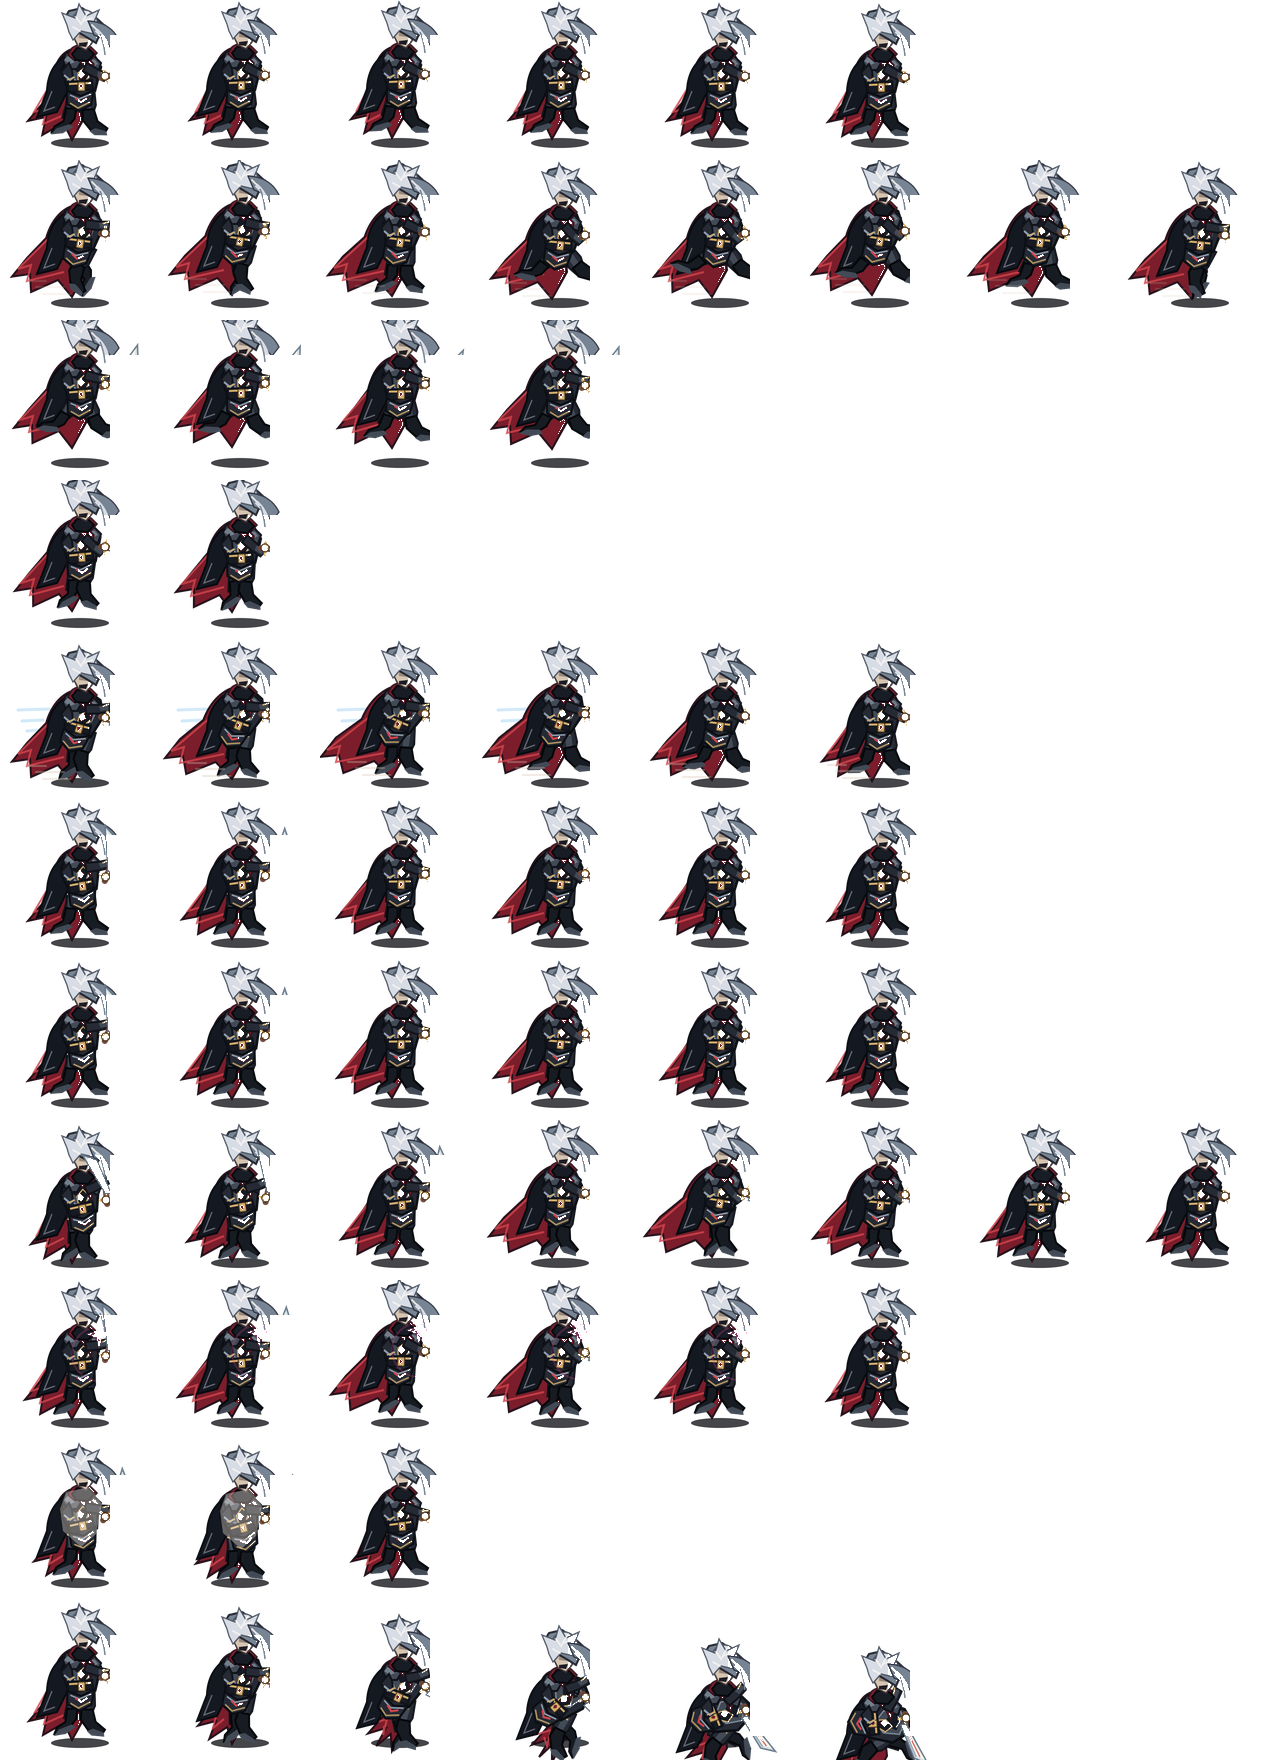
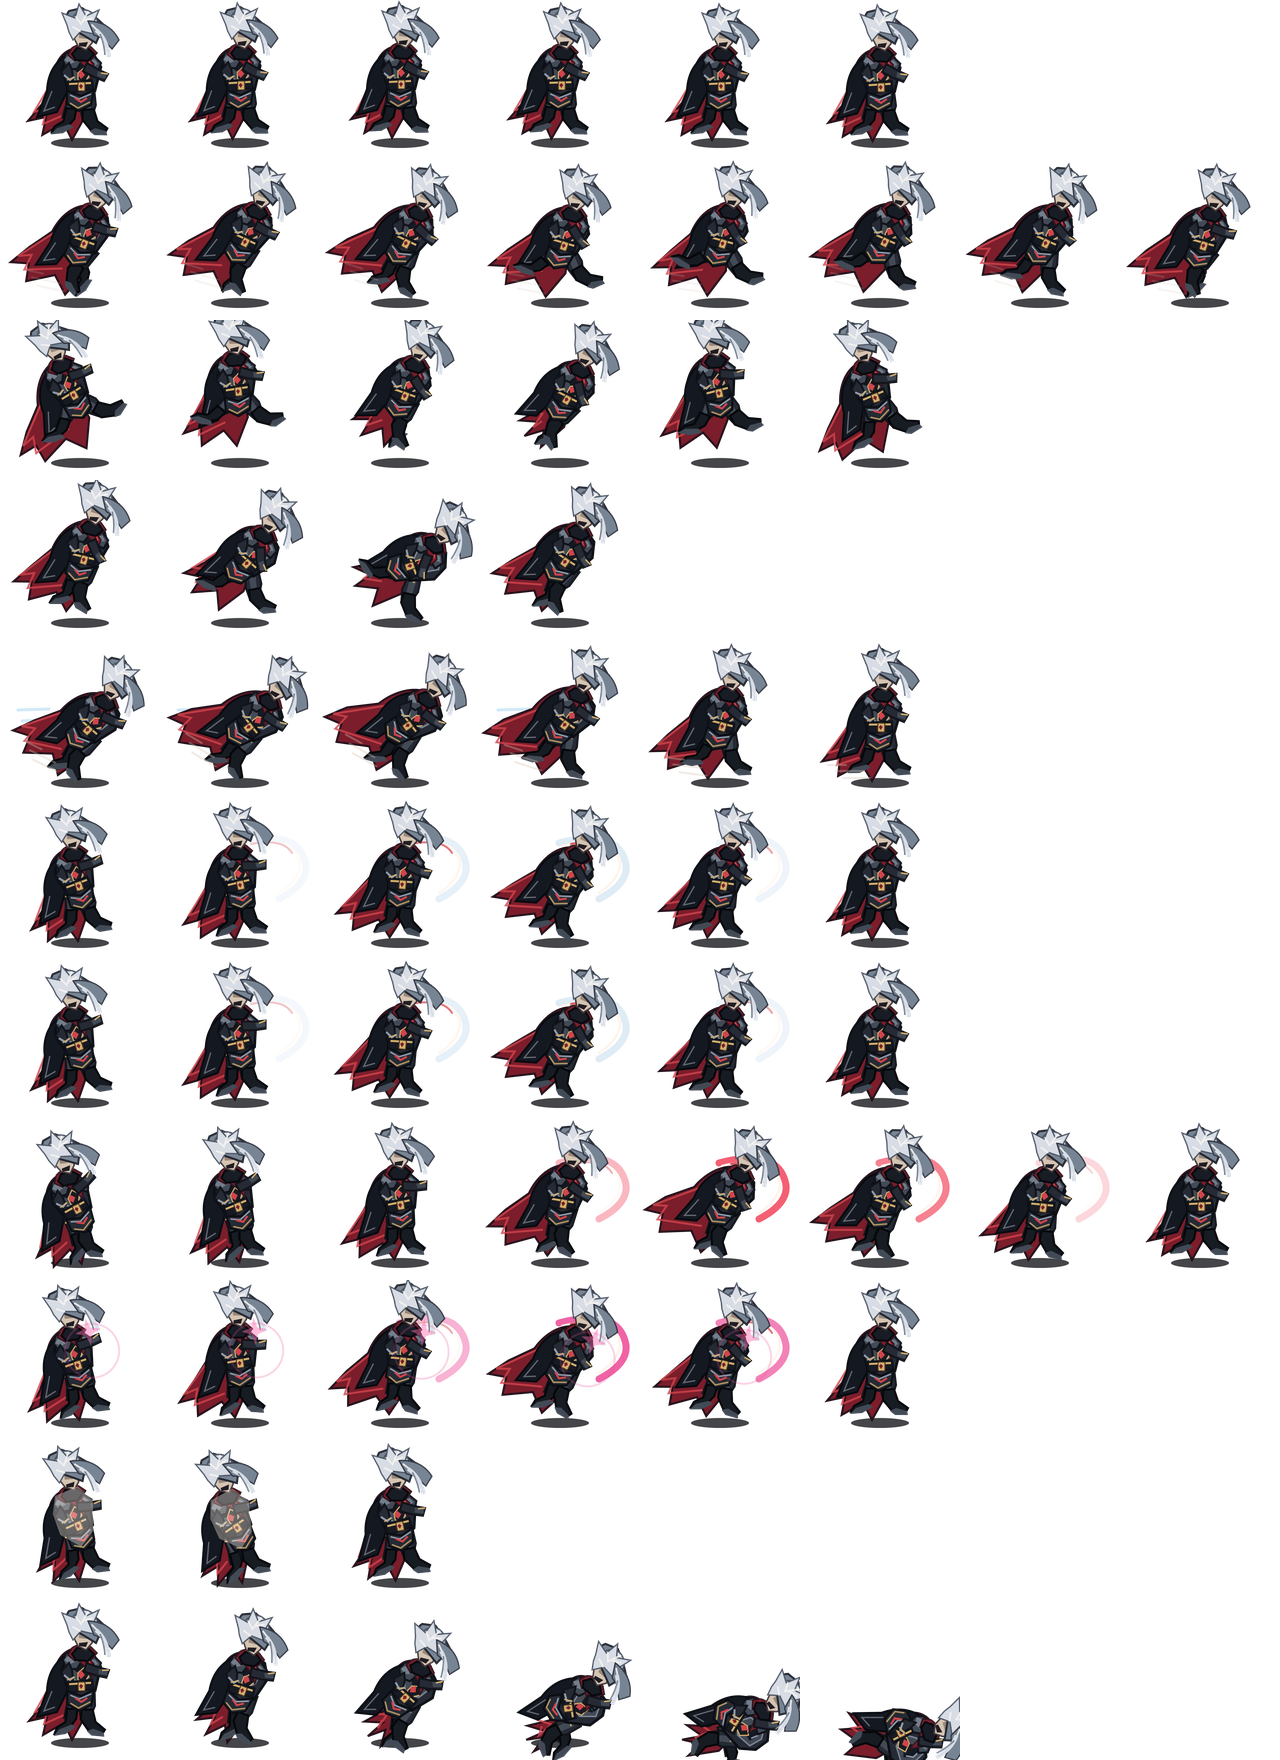
Characters: rebuild male/female sheets from Combat Upgrade 2 (new poses, 6-frame jump, 4-frame fall); male stays first/default

diff --git a/tools/build_pack_sheet.py b/tools/build_pack_sheet.py
@@ -14,8 +14,8 @@ from PIL import Image
 FRAME = 160
 # game row name -> (pack strip name, frames to use)
 ROWS = [
-    ("idle", "idle", 6), ("run", "run", 8), ("jump", "jump_loop", 4),
-    ("fall", "fall", 2), ("dodge", "dodge", 6), ("light1", "attack_light", 6),
+    ("idle", "idle", 6), ("run", "run", 8), ("jump", "jump_loop", 6),
+    ("fall", "fall", 4), ("dodge", "dodge", 6), ("light1", "attack_light", 6),
     ("light2", "attack_light", 6), ("heavy", "attack_heavy", 8),
     ("skill", "skill", 6), ("hurt", "hurt", 3), ("death", "death", 6),
 ]

diff --git a/docs/PROGRESS.md b/docs/PROGRESS.md
@@ -30,6 +30,7 @@ Priority: SAVE PROGRESS > MANY FEATURES. Commit and push after every small step.
 - Environment Kit + Weapon Kit added (`docs/kits/*_README.md` has the originals' docs). Backgrounds: kit 01-03 were the same art as existing regions, so those regions got the kit names (Ashen Chapel, Cinder Bastion, The Drowned March) and the new `veiled_throne.jpg` became region 5 (F1-F5; Moonlit Citadel keeps its name). Weapons: all 12 weapon PNGs, icons, `weapon_manifest.json` in `godot/assets/weapons/`, VFX in `godot/assets/fx/kit/`. In game: hotbar uses the kit icons (Rookfang 01, Gravetide 04, Oathbreaker 02); weapons now change gameplay via `Player.WEAPON_DATA` (damage x, reach x, slash art: crimson / frost / holy); hits spawn kit slash + blood impact, dodge spawns the dash trail (`SheetUtil.pop_sprite`). Held-weapon sprites are NOT drawn (the knight art already holds a sword); the other 9 weapons are unused for now. HUD icon textures must be preloaded in `_ready` (first-draw load showed white squares). Tests 19/19 + 10/10.
 - Asset Pack import (step 1): owner's `AshenVeil_Godot_Complete_Asset_Pack.zip` (checksums verified) has generated chibi-style male/female characters with real jump/fall/land/dodge/hurt/death strips (160px frames). They differ in style from the painted Ashen Knight, so the knight stays the default. `tools/build_pack_sheet.py <pack_root>` builds `godot/assets/characters/player_male|female.png/.json` in the game's row format (scale 0.45, feet_row 146, center_x 80). Wired in (step 2): `Player.SKINS` + static `Player.skin`, **F6 cycles Ashen Knight / Male / Female** (scene reloads, choice survives like regions); skin test added (sheet + meta exist); `tests/screenshot.gd` honours env `ASHEN_SKIN=0|1|2`. Screenshot-checked male skin: scale and feet line up on the floor. Tests 20/20 + 10/10 style (FAILURES: 0 both).
 - Combat Upgrade pack (step 1, owner asked to replace character + environments with it): default player is now the pack's **combat** male body (`assets/characters_combat`, no sword baked in; female via F6, old Ashen Knight kept as 3rd skin); `tools/build_pack_sheet.py` now reads `characters_combat` (feet_row 140, center_x 80, scale 0.45). Regions replaced by the pack's 4 backdrops (`01_drowned_march`, `02_ashen_chapel`, `03_cinder_bastion`, `04_veiled_throne` in `godot/assets/parallax/`, F1-F4); old region jpgs removed. Step 2a done: the held weapon is drawn on a hand pivot (`Player._build_weapon/_update_weapon`, pack conventions: pivot mirrored by `scale.x = facing`, grip anchor on the pivot, swing angles from `swing_light/heavy/skill` interpolated over the attack animation; hand socket per skin in `Player.SKINS`; Ashen Knight keeps its baked-in sword). Hotbar slots 1-3 map to Rookfang / Gravetide / Oathbreaker (`Player.WEAPON_IDS`). All 12 runtime trims + `runtime_manifest.json` are in `godot/assets/weapons/`. NEXT (step 2b): all 12 weapons on keys 1-9,0 and stats from the manifest; original plan: draw the pack's 12 runtime weapons on a hand pivot (`assets/weapons/runtime_manifest.json`: grip_anchor, scale, swing angles; hand at (34,-69) male / (36,-68) female at pack scale 1.0) and drive stats from the manifest.
+- Combat Upgrade 2 pack: rebuilt character strips (stronger lean, 6-frame jump loop, 4-frame fall; backgrounds + weapon manifest unchanged, checksums verified). Male (first character) stays the default; `player_male/female.png/json` rebuilt from it via `tools/build_pack_sheet.py` (jump 6 / fall 4 frames).
 
 ## Decision
 Port to Godot 4 (GDScript) for 2D lights, parallax, particles and shaders. Python version stays as a fallback.
